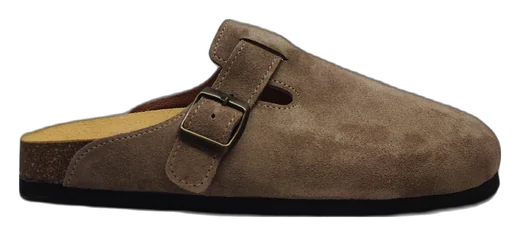
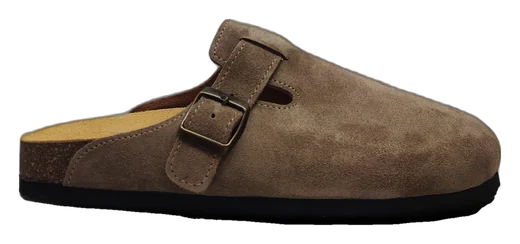
Recupera a sola preta que o recorte cortava nos chinelos de cortiça
O recorte confundia a sola escura com a sombra do chão e cortava-a (no 1128 a sola de borracha
desaparecia toda). Os píxeis muito escuros da foto original colados ao sapato voltam a entrar;
a sombra, mais clara, continua de fora.

Claude-Session: https://claude.ai/code/session_01B3DnFGtgrKXUtky3rp3Gy7

diff --git a/ferramentas/converter_fotos.py b/ferramentas/converter_fotos.py
@@ -19,7 +19,7 @@ import re
 import sys
 from pathlib import Path
 
-from PIL import Image, ImageOps
+from PIL import Image, ImageChops, ImageFilter, ImageOps
 
 RAIZ = Path(__file__).resolve().parent.parent
 ORIGEM = RAIZ / "fotos originais"
@@ -33,7 +33,7 @@ EXTENSOES = {".jpg", ".jpeg", ".png", ".webp", ".heic"}
 # Modelo de recorte usado por omissão e exceções por referência.
 # O "isnet-general-use" funciona bem na maioria das fotos, mas nos chinelos de sola de cortiça
 # deixa a sombra do chão como um "nevoeiro" por baixo da sola; para esses usa-se o "u2net"
-# e as arestas são endurecidas (a sola escura pousada na sua sombra fica esbatida sem isso).
+# e recupera-se a sola preta pela cor (o recorte confunde-a com a sombra e corta-a).
 MODELO = "isnet-general-use"
 MODELO_POR_REF = {
     "1128": "u2net",
@@ -51,11 +51,18 @@ def nome_destino(ficheiro: Path):
     return m.group(1), m.group(2).lower()
 
 
-def endurecer(img: Image.Image, baixo=70, alto=190) -> Image.Image:
-    """Arestas nítidas: o que o recorte acha "quase de certeza sapato" fica opaco, o "quase fundo" desaparece."""
-    a = img.getchannel("A").point(lambda v: 0 if v <= baixo else 255 if v >= alto else int((v - baixo) * 255 / (alto - baixo)))
-    img.putalpha(a)
-    return img
+def recuperar_sola(original: Image.Image, cortada: Image.Image) -> Image.Image:
+    """Volta a juntar a sola escura que o recorte cortou.
+
+    Os píxeis muito escuros da foto original, colados ao sapato, são sola (a sombra do chão é mais clara);
+    depois as arestas ficam nítidas: o "quase sapato" fica opaco e o "quase fundo" (nevoeiro) desaparece."""
+    a = cortada.getchannel("A")
+    perto = a.point(lambda v: 255 if v > 128 else 0).filter(ImageFilter.MaxFilter(41))
+    escuro = original.convert("L").point(lambda v: 255 if v < 75 else 0)
+    m = ImageChops.lighter(a, ImageChops.multiply(escuro, perto)).filter(ImageFilter.MedianFilter(5))
+    m = m.point(lambda v: 0 if v <= 70 else 255 if v >= 190 else int((v - 70) * 255 / 120))
+    cortada.putalpha(m.filter(ImageFilter.GaussianBlur(0.8)))
+    return cortada
 
 
 def recortar(img: Image.Image) -> Image.Image:
@@ -113,7 +120,7 @@ def main():
         img.thumbnail((ENTRADA_MAX, ENTRADA_MAX), Image.LANCZOS)
         cortada = remove(img, session=sessao)
         if ref in MODELO_POR_REF:
-            cortada = endurecer(cortada)
+            cortada = recuperar_sola(img, cortada)
         img = recortar(cortada)
         img.thumbnail((LARGURA_MAX, LARGURA_MAX), Image.LANCZOS)
         saida.parent.mkdir(parents=True, exist_ok=True)
